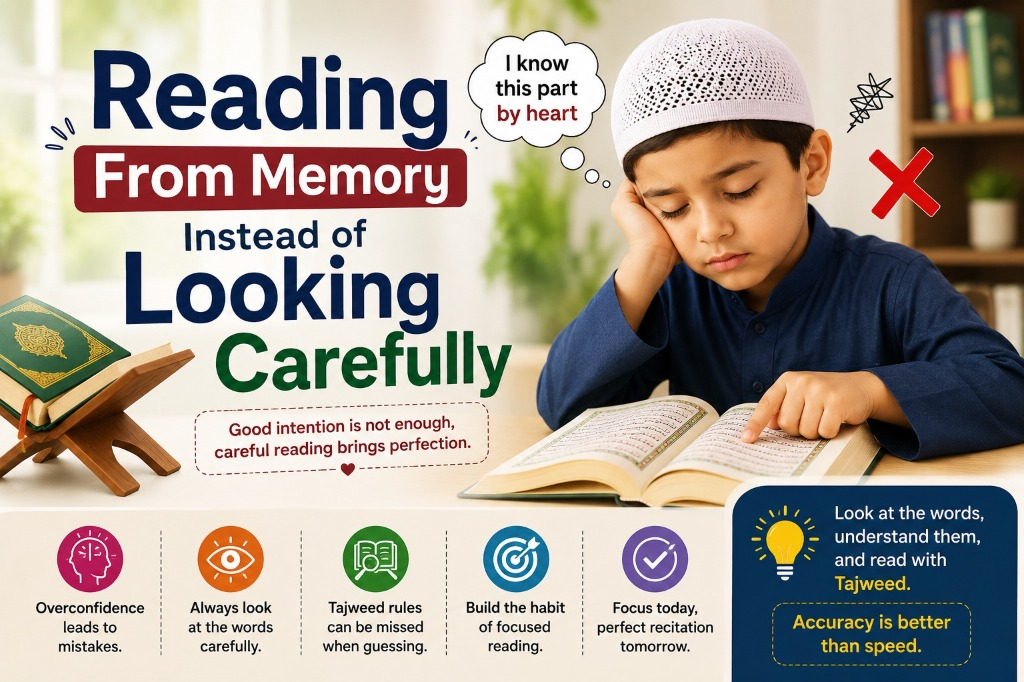
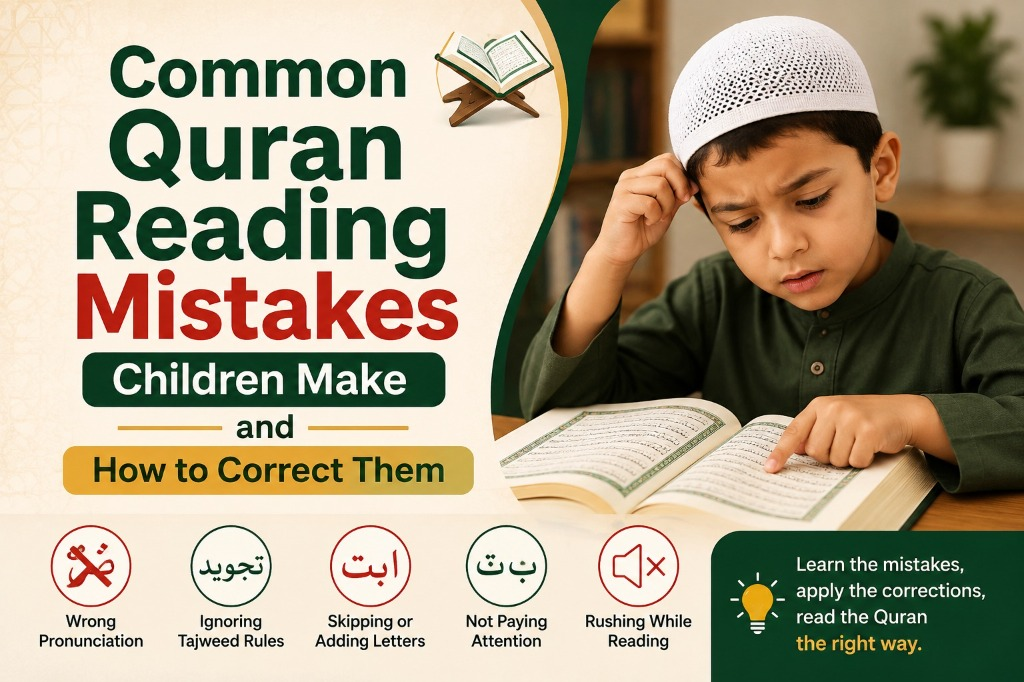
Update cover image for common quran reading mistakes blog

diff --git a/src/app/blog/BlogPageClient.tsx b/src/app/blog/BlogPageClient.tsx
@@ -53,7 +53,7 @@ const mapping: Record<string, string> = {
   'how-to-choose-best-online-quran-classes-for-kids-usa': '/blog/how-to-choose-best-online-quran-classes-for-kids-usa/how-to-choose-best-online-quran-classes-kids-usa-cover.jpg',
   'how-long-does-it-take-for-a-child-to-complete-the-quran-online': '/blog/how-long-does-it-take-for-a-child-to-complete-the-quran-online/child-quran-completion-timeline-cover.jpg',
   'how-do-you-know-your-child-is-ready-to-start-learning-the-quran': '/blog/how-do-you-know-your-child-is-ready-to-start-learning-the-quran/how-do-you-know-your-child-is-ready-to-start-learning-the-quran-cover.jpg',
-  'common-quran-reading-mistakes-children-make': '/blog/common-quran-reading-mistakes-children-make/reading-from-memory-mistake.jpg',
+  'common-quran-reading-mistakes-children-make': '/blog/common-quran-reading-mistakes-children-make/common-quran-reading-mistakes-cover.jpg',
 };
 
 const getBlogImageAlt = (slug: string, title: string): string => {

diff --git a/src/data/db.ts b/src/data/db.ts
@@ -335,7 +335,7 @@ let inMemoryCache: DatabaseSchema | null = null;
         dest: path.join(process.cwd(), 'public/blog/common-quran-reading-mistakes-children-make/reading-from-memory-mistake.jpg')
       },
       {
-        src: 'C:\\Users\\dell\\.gemini\\antigravity-ide\\brain\\df6479f8-8329-4ae5-9267-97b080ee822c\\.user_uploaded\\media_1788281106346.jpg',
+        src: 'C:\\Users\\dell\\.gemini\\antigravity-ide\\brain\\df6479f8-8329-4ae5-9267-97b080ee822c\\.user_uploaded\\media_1788282591808.jpg',
         fallbackSrc: path.join(process.cwd(), 'public/quran-reading.jpg'),
         dest: path.join(process.cwd(), 'public/blog/common-quran-reading-mistakes-children-make/common-quran-reading-mistakes-cover.jpg')
       }
